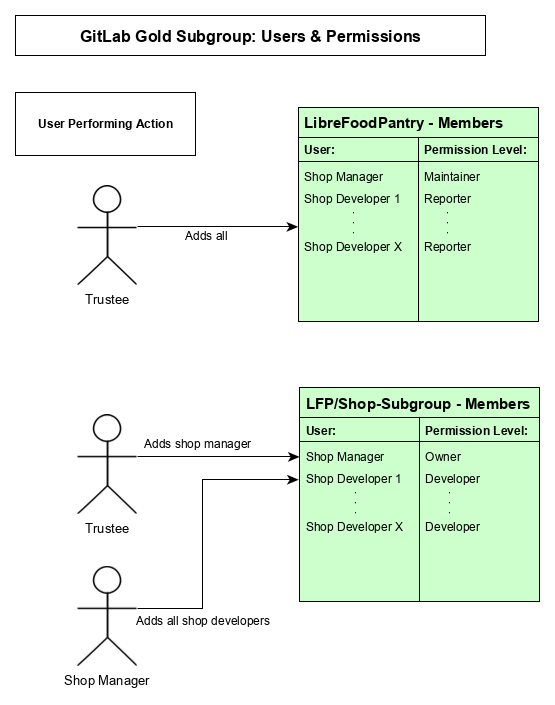
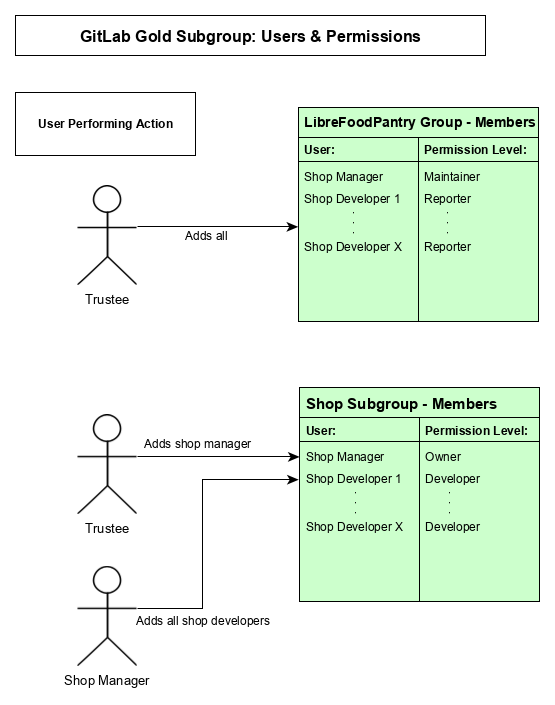
Updated GitLab documentation according to review comments

Changed region(s): [[0.5514, 0.156, 0.9802, 0.1872], [0.5514, 0.5617, 0.9495, 0.5929]]

diff --git a/docs/dev/shop-setup/GitLab_Gold.md b/docs/dev/shop-setup/GitLab_Gold.md
@@ -1,32 +1,38 @@
-# GitLab Gold Shop Setup:
+# GitLab Gold Setup:
+
+This document is a guide for Shop Managers on setting up a shop subgroup or a standalone shop group on GitLab Gold that will be contributing to a LibreFoodPantry (LFP) project
 
 ## Option 1: Subgroup of LibreFoodPantry (inherits Gold features from LFP group)
 
-### Setting up groups and user permissions:
 
-![GitLab Gold Option 1 Users & Permissions Diagram](https://raw.githubusercontent.com/LibreFoodPantry/ProjectTemplate/shop_setup_documentation/docs/dev/shop-setup/diagrams/GitLab_Gold_Setup_Option1_Users_And_Permissions.png)
+## Setting up user permissions and the GitLab shop subgroup:
 
-#### Trustee:
 
-1. Add the shop manager to the LFP group with maintainer permissions
+### Trustee:
 
-2. Create a subgroup in LFP for the shop
+1. Add the Shop Manager to the LFP group with maintainer permissions
 
-3. Add the shop manager to the shop subgroup as an owner
+2. Create a subgroup under the LFP group for the shop
 
-4. Add the shop developers to the parent LFP group with reporter permissions
+3. Add the Shop Manager to the shop subgroup as an owner
 
-#### Shop Manager:
+4. Add the Shop Developers to the parent LFP group with reporter permissions
 
-1. Add the shop developers to the shop subgroup with developer permissions
+### Shop Manager:
 
-### Setting up the shop issue board:
+1. Add the Shop Developers to the shop subgroup with developer permissions
 
-![GitLab Shop Board Diagram](https://raw.githubusercontent.com/LibreFoodPantry/ProjectTemplate/shop_setup_documentation/docs/dev/shop-setup/diagrams/GitLab_Setup_Shop_Board.png)
 
-#### Shop Manager:
+### Users & permissions diagram:
+![GitLab Shop Board Diagram](https://raw.githubusercontent.com/LibreFoodPantry/ProjectTemplate/shop_setup_documentation/docs/dev/shop-setup/diagrams/GitLab_Gold_Setup_Option1_Users_And_Permissions.png)
 
-1. Create a new shop-level issue board
+
+## Setting up the shop issue board:
+
+
+### Shop Manager:
+
+1. Create a new shop group-level issue board to coordinate work across the shop
 
 2. Add a new column by clicking "Add list" and create a new group label for (and column) for each of the following (in order on the board from left to right):
     1. Backlog
@@ -37,41 +43,50 @@
 
 - You may need to click on the label in the add list menu for the list to be added to the board    
 
-### Setting up the project:
+- Note these columns are our recommendations from our preferred workflow, they can be changed to better suit your shop's workflow  
 
+### Shop group-level issue board diagram:
+![GitLab Shop Board Diagram](https://raw.githubusercontent.com/LibreFoodPantry/ProjectTemplate/shop_setup_documentation/docs/dev/shop-setup/diagrams/GitLab_Setup_Shop_Board.png)
+
+
+## Setting up the project:
+
+
+### Shop Manager:
+
+1. Fork the repository you will be working on from the LFP group to the shop group
+
+### GitLab Gold subgroup groups and projects diagram:
 ![GitLab Gold Option 1 Groups & Projects Diagram](https://raw.githubusercontent.com/LibreFoodPantry/ProjectTemplate/shop_setup_documentation/docs/dev/shop-setup/diagrams/GitLab_Gold_Setup_Option1_Groups_And_Projects.png)
-
-#### Shop Manager:
-
-1. Fork the repository you will be working on from the LFP group to the shop 
-
 
 
 ## Option 2: Standalone Group
 
-### Setting up groups and user permissions:
+## Setting up groups and user permissions:
 
-![GitLab Gold Standalone Group Users & Permissions Diagram](https://raw.githubusercontent.com/LibreFoodPantry/ProjectTemplate/shop_setup_documentation/docs/dev/shop-setup/diagrams/GitLab_Standalone_Group_Setup_Users_And_Permissions.png)
 
-#### Trustee:
+### Trustee:
 
 1. Add the shop manager to the LFP group with maintainer permissions
 
 2. Add the shop developers to the LFP group with reporter permissions
 
-#### Shop Manager:
+### Shop Manager:
 
 1. Create a GitLab group for the shop
 
 2. Add the shop developers to the shop group with developer permissions
 
-### Setting up the shop issue board:
+### Users & permissions diagram:
+![GitLab Gold Standalone Group Users & Permissions Diagram](https://raw.githubusercontent.com/LibreFoodPantry/ProjectTemplate/shop_setup_documentation/docs/dev/shop-setup/diagrams/GitLab_Standalone_Group_Setup_Users_And_Permissions.png)
 
-![GitLab Shop Board Diagram](https://raw.githubusercontent.com/LibreFoodPantry/ProjectTemplate/shop_setup_documentation/docs/dev/shop-setup/diagrams/GitLab_Setup_Shop_Board.png)
 
-#### Shop Manager:
+## Setting up the shop issue board:
 
-1. Create a new shop-level issue board
+
+### Shop Manager:
+
+1. Create a new shop group-level issue board to coordinate work across the shop
 
 2. Add a new column by clicking "Add list" and create a new group label for (and column) for each of the following (in order on the board from left to right):
     1. Backlog
@@ -80,19 +95,26 @@
     4. Needs Merge
     5. Done
 
-- You may need to click on the label in the add list menu for the list to be added to the board
+- You may need to click on the label in the add list menu for the list to be added to the board    
 
-### Setting up the project:
+- Note these columns are our recommendations from our preferred workflow, they can be changed to better suit your shop's workflow  
 
+### Shop group-level issue board diagram:
+![GitLab Shop Board Diagram](https://raw.githubusercontent.com/LibreFoodPantry/ProjectTemplate/shop_setup_documentation/docs/dev/shop-setup/diagrams/GitLab_Setup_Shop_Board.png)
+
+
+## Setting up the project:
+
+
+### Shop Manager:
+
+1. Fork the repository you will be working on from the LFP group to the shop group
+
+### GitLab groups & projects diagram:
 ![GitLab Gold Standalone Group Groups & Projects Diagram](https://raw.githubusercontent.com/LibreFoodPantry/ProjectTemplate/shop_setup_documentation/docs/dev/shop-setup/diagrams/GitLab_Standalone_Group_Groups_And_Projects.png)
 
-
-#### Shop Manager:
-
-1. Fork the repository you will be working on from the LFP group to the shop 
-
 ---
-Copyright (c) <YEAR> The LibreFoodPantry Developers.
+Copyright (c) 2019 The LibreFoodPantry Developers.
 Permission is granted to copy, distribute and/or modify this document
 under the terms of the GNU Free Documentation License, Version 1.3
 or any later version published by the Free Software Foundation;

diff --git a/docs/dev/shop-setup/GitLab_Free.md b/docs/dev/shop-setup/GitLab_Free.md
@@ -1,30 +1,38 @@
-# GitLab Free Shop Setup:
+# GitLab Free Setup:
 
-### Setting up groups and user permissions:
+This document is a guide for Shop Managers on setting up a new shop group on GitLab that will be contributing to a LibreFoodPantry (LFP) project
 
-![GitLab Standalone Group Users & Permissions Diagram](https://raw.githubusercontent.com/LibreFoodPantry/ProjectTemplate/shop_setup_documentation/docs/dev/shop-setup/diagrams/GitLab_Standalone_Group_Setup_Users_And_Permissions.png)
 
-#### Trustee:
+## Setting up user permissions and the GitLab shop group:
 
-1. Add the shop manager to the LFP group with maintainer permissions
 
-2. Add the shop developers to the LFP group with reporter permissions
+### Trustee:
 
-#### Shop Manager:
+1. Add the Shop Manager to the LFP group with maintainer permissions
 
-1. Create a GitLab group for the shop
+2. Add the Shop Developers to the LFP group with reporter permissions
 
-2. Add the shop developers to the shop group with developer permissions
 
-### Setting up the shop issue board:
+### Shop Manager:
 
-![GitLab Shop Board Diagram](https://raw.githubusercontent.com/LibreFoodPantry/ProjectTemplate/shop_setup_documentation/docs/dev/shop-setup/diagrams/GitLab_Setup_Shop_Board.png)
+1. Create a new GitLab group for the shop
 
-#### Shop Manager:
+2. Add the Shop Developers to the shop group with developer permissions
 
-1. Go to the Development issue board in the shop group
 
-2. Add a new column by clicking "Add list" and create a new group label for (and column) for each of the following (in order on the board from left to right):
+### Users & permissions diagram:
+![GitLab Standalone Group Shop Users & Permissions Diagram](https://raw.githubusercontent.com/LibreFoodPantry/ProjectTemplate/shop_setup_documentation/docs/dev/shop-setup/diagrams/GitLab_Standalone_Group_Setup_Users_And_Permissions.png)
+
+
+
+## Setting up the shop group-level issue board:
+
+
+### Shop Manager:
+
+1. Go to the default Development issue board in the shop group
+
+2. Add a new column by clicking "Add list" and create a new group label (and column) for each of the following (in order on the board from left to right):
     1. Backlog
     2. In Sprint
     3. Needs Review
@@ -33,16 +41,24 @@
 
 - You may need to click on the label in the add list menu for the list to be added to the board
 
-### Setting up the project:
+- Note these columns are our recommendations from our preferred workflow, they can be changed to better suit your shop's workflow  
 
+### Shop group-level issue board diagram:
+![GitLab Shop Board Diagram](https://raw.githubusercontent.com/LibreFoodPantry/ProjectTemplate/shop_setup_documentation/docs/dev/shop-setup/diagrams/GitLab_Setup_Shop_Board.png)
+
+
+## Setting up the project:
+
+
+### Shop Manager:
+
+1. Fork the repository you will be working on from the LFP group to the shop group
+
+### GitLab groups & projects diagram:
 ![GitLab Standalone Group Groups & Projects Diagram](https://raw.githubusercontent.com/LibreFoodPantry/ProjectTemplate/shop_setup_documentation/docs/dev/shop-setup/diagrams/GitLab_Standalone_Group_Groups_And_Projects.png)
 
-#### Shop Manager:
-
-1. Fork the repository you will be working on from the LFP group to the shop 
-
 ---
-Copyright (c) <YEAR> The LibreFoodPantry Developers.
+Copyright (c) 2019 The LibreFoodPantry Developers.
 Permission is granted to copy, distribute and/or modify this document
 under the terms of the GNU Free Documentation License, Version 1.3
 or any later version published by the Free Software Foundation;
